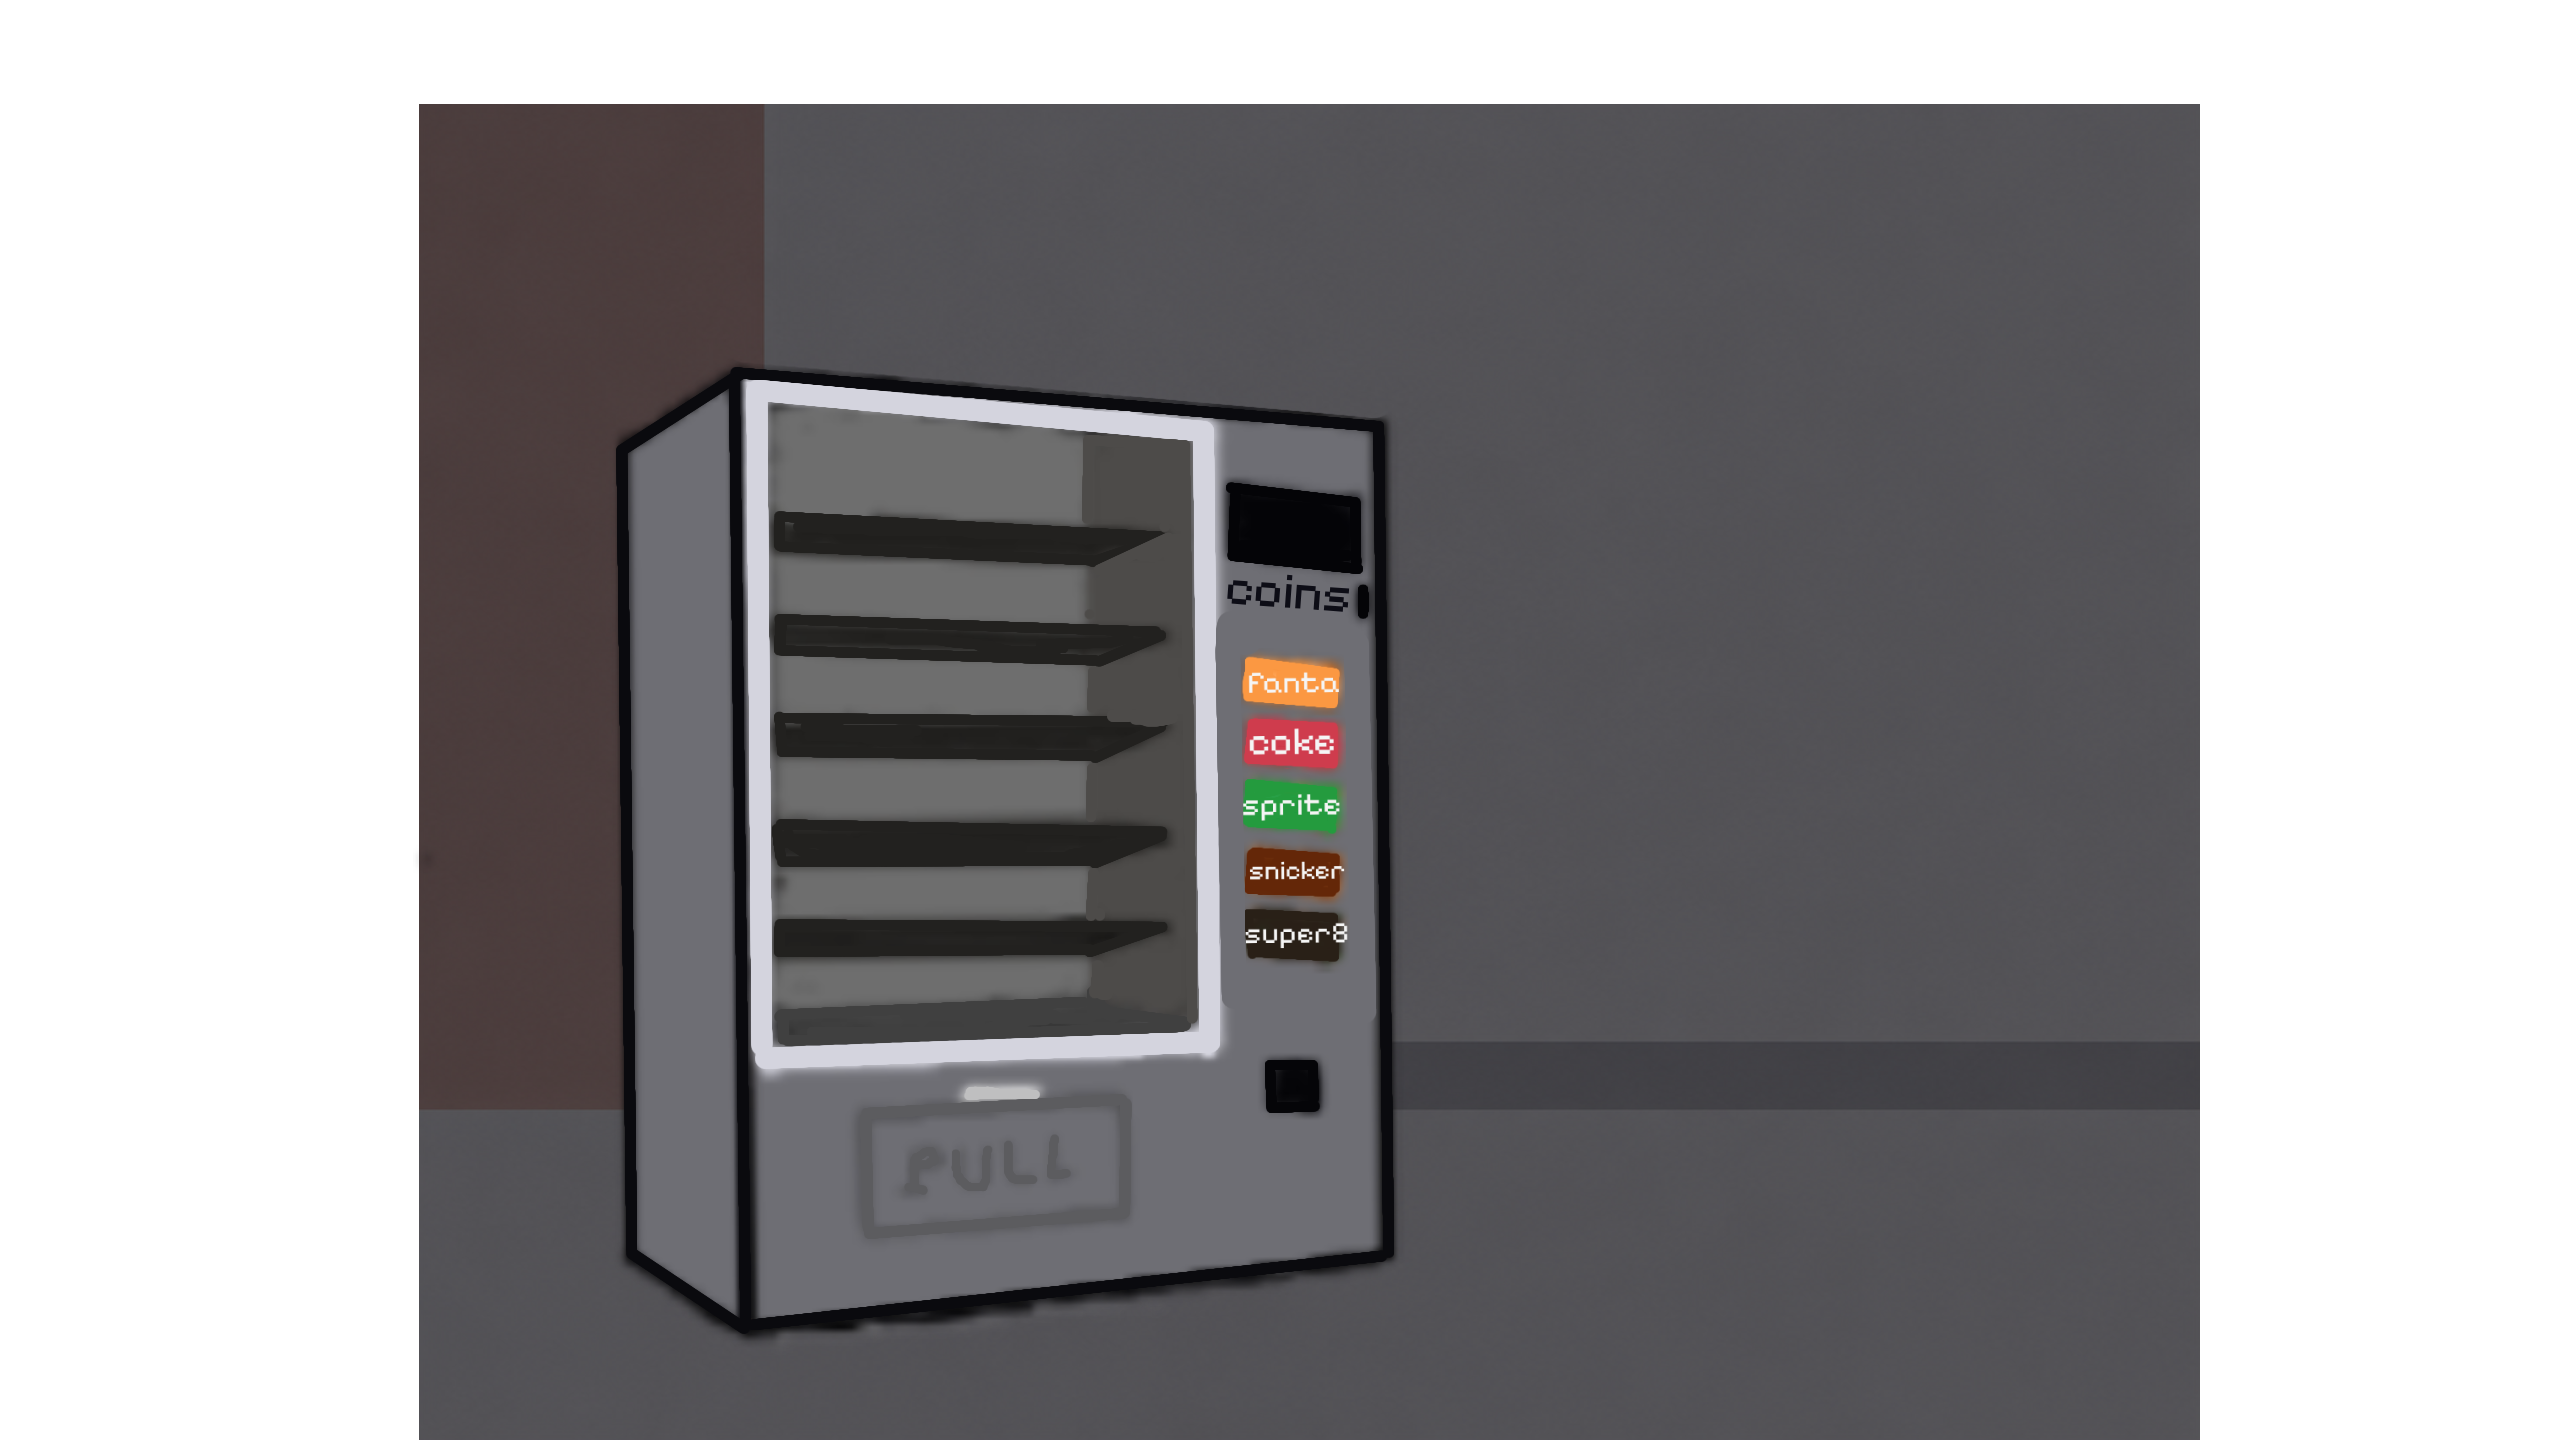
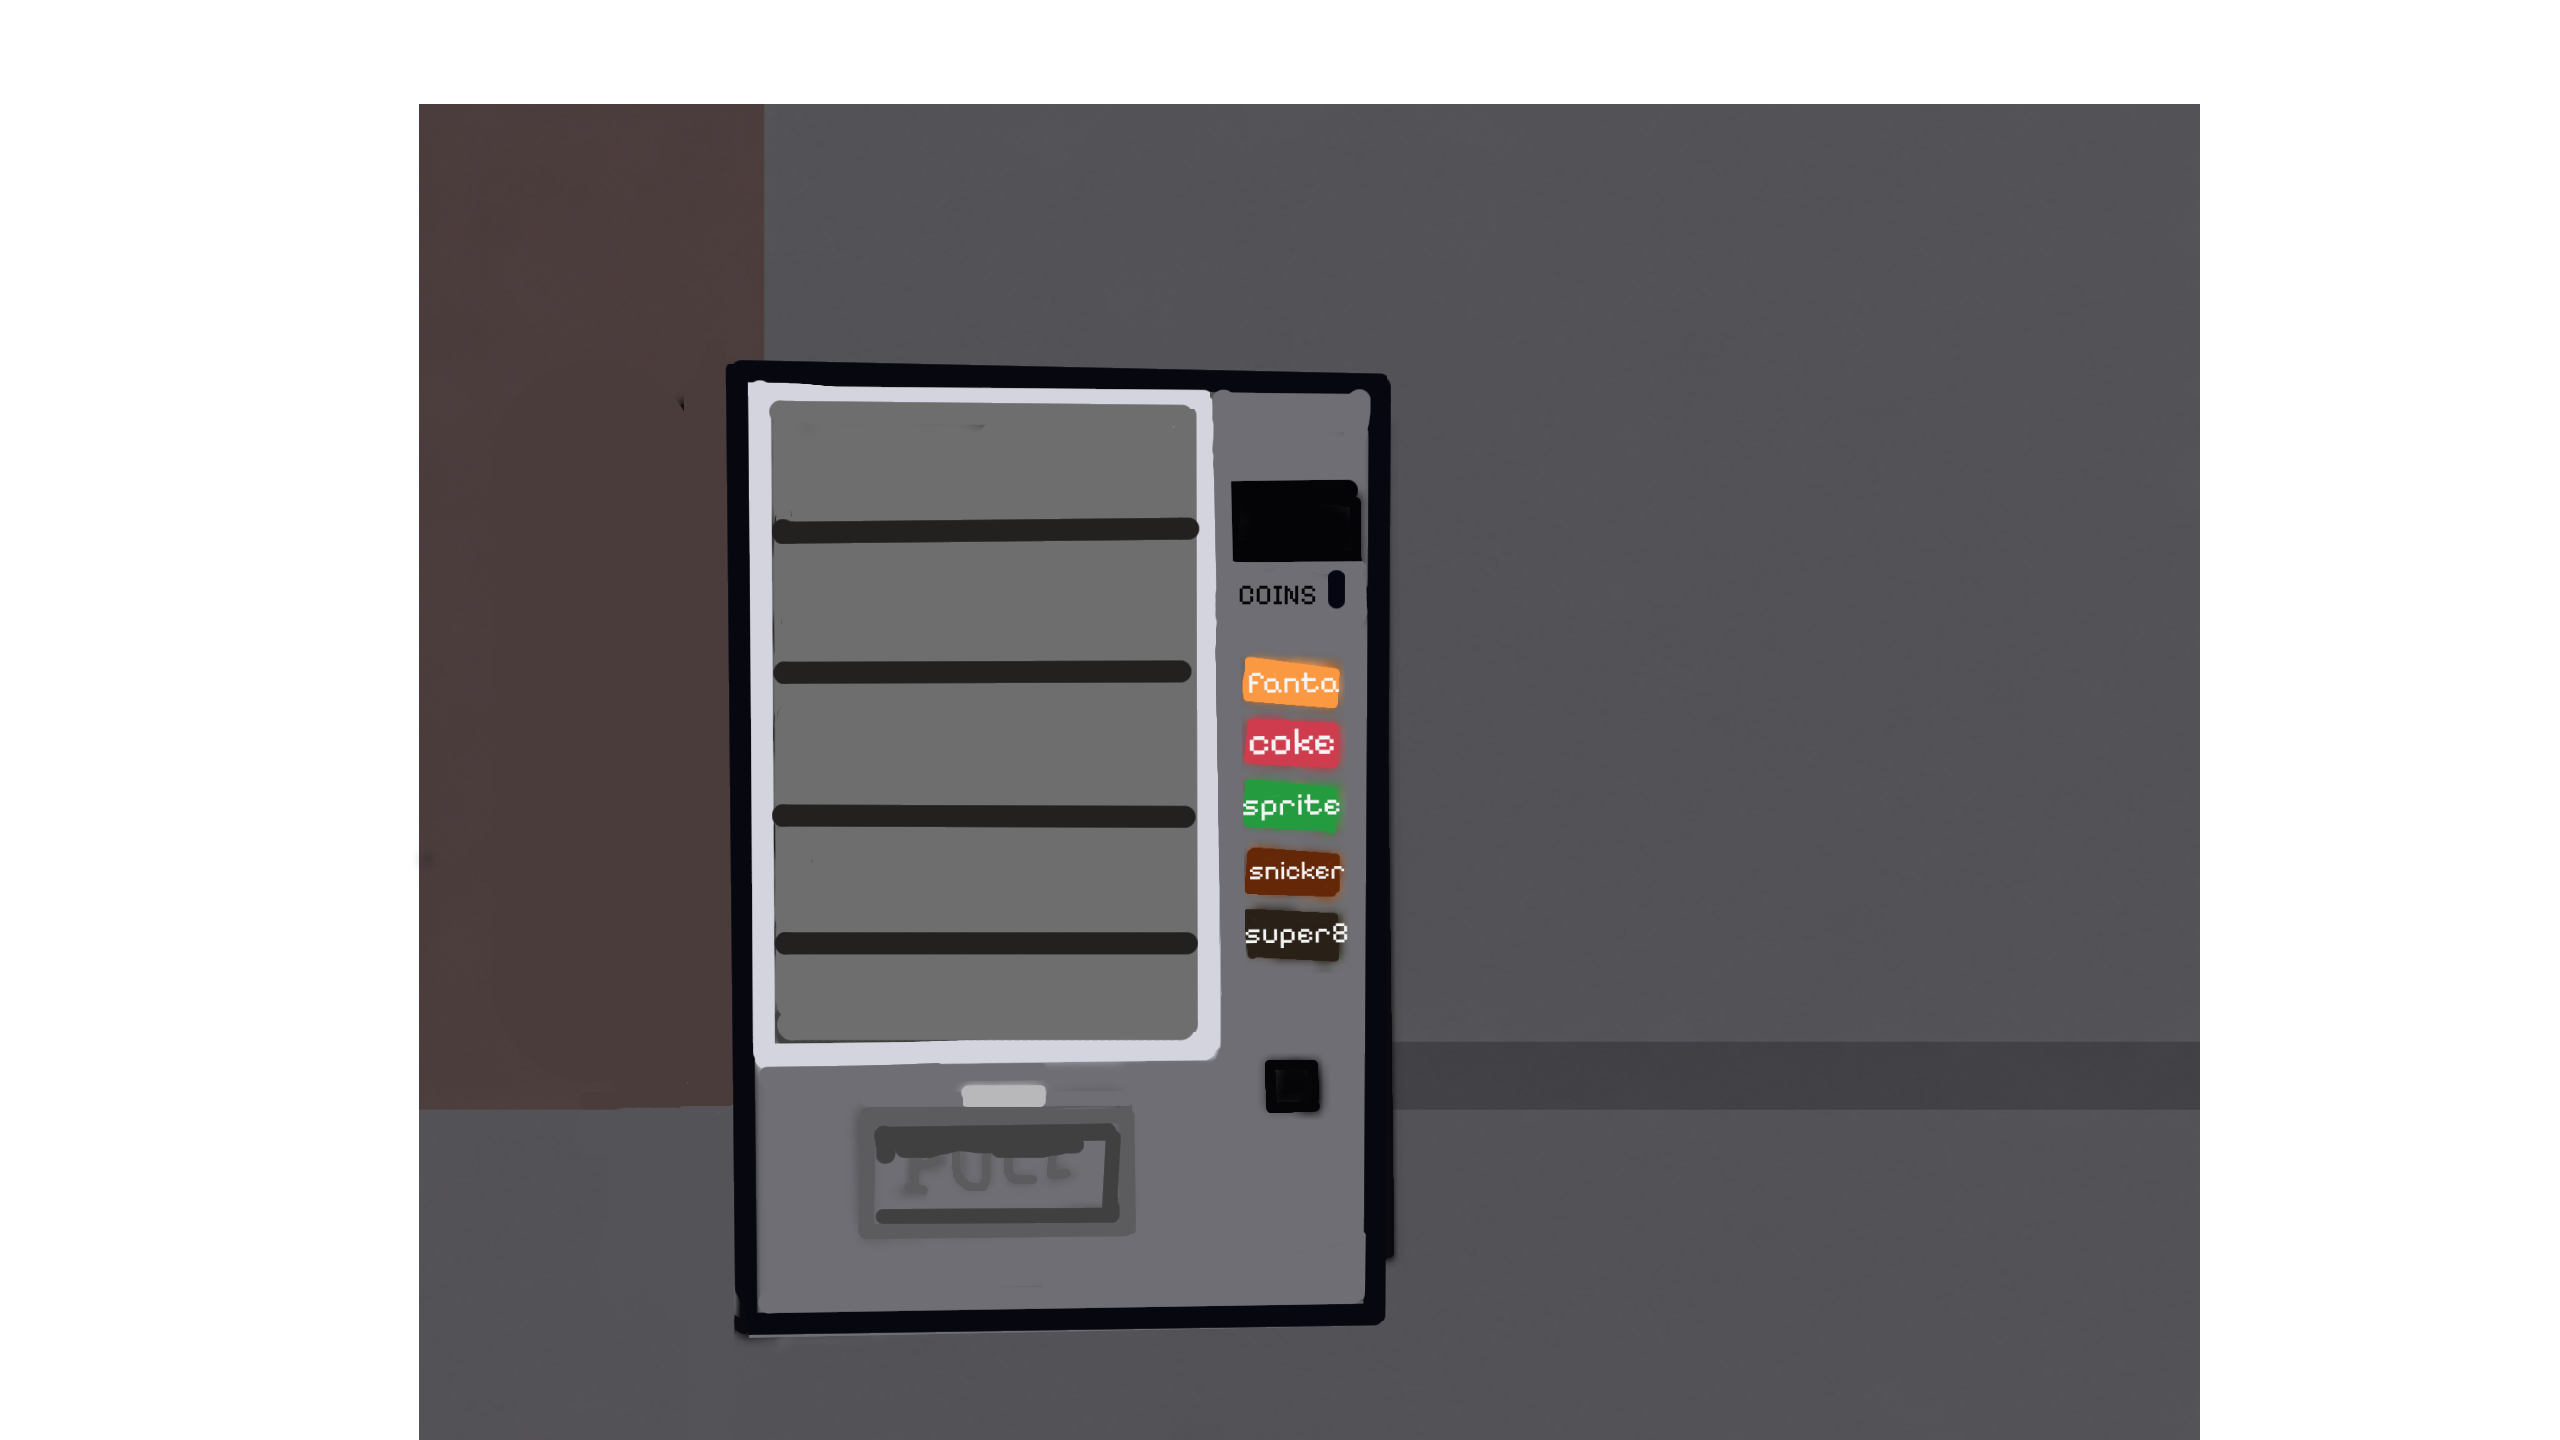
feat: agregar imagenes de productos

Changed region(s): [[0.2188, 0.25, 0.5625, 0.9375]]

diff --git a/Tarea3/Visual/Ventana.java b/Tarea3/Visual/Ventana.java
@@ -1,24 +1,54 @@
 package Visual;
-import Logica.Expendedor;
+
 import javax.swing.*;
 import java.awt.*;
 
-public class Ventana extends JFrame {
-    public Ventana() {
-        setTitle("Expendedor");
-        setSize(900, 650);
-        setDefaultCloseOperation(JFrame.EXIT_ON_CLOSE);
-        setLayout(new BorderLayout());
+public class PanelProducto {
+    private int x, y;
+    private static final int ANCHO = 65, ALTO = 48;
+    private int numSerie;
+    private Color color;
+    private Image imagen;
 
-        Expendedor expendedor = new Expendedor(5);
-        PanelPrincipal panelPrincipal = new PanelPrincipal(expendedor);
-        add(panelPrincipal, BorderLayout.CENTER);
+    public PanelProducto(int x, int y, int numSerie, Color color, String rutaImagen) {
+        this.x = x;
+        this.y = y;
+        this.numSerie = numSerie;
+        this.color = color;
 
-        setLocationRelativeTo(null);
-        setVisible(true);
+        try {
+            ImageIcon icon = new ImageIcon(
+                    getClass().getResource(rutaImagen)
+            );
+            imagen = icon.getImage()
+                    .getScaledInstance(ANCHO, ALTO, Image.SCALE_SMOOTH);
+        } catch (Exception e) {
+            System.out.println("No se pudo cargar imagen: " + rutaImagen);
+            imagen = null;
+        }
     }
 
-    public static void main(String[] args) {
-        new Ventana(); // solo esto en el main
+    public void setXY(int x, int y) {
+        this.x = x;
+        this.y = y;
+    }
+
+    public void paintComponent(Graphics g) {
+        Graphics2D g2 = (Graphics2D) g;
+        g2.setRenderingHint(RenderingHints.KEY_ANTIALIASING,
+                RenderingHints.VALUE_ANTIALIAS_ON);
+
+        if (imagen != null) {
+            g2.drawImage(imagen, x, y, null);
+        } else {
+            g2.setColor(color);
+            g2.fillRoundRect(x, y, ANCHO, ALTO, 8, 8);
+            g2.setColor(color.darker());
+            g2.drawRoundRect(x, y, ANCHO, ALTO, 8, 8);
+        }
+
+        g2.setColor(Color.WHITE);
+        g2.setFont(new Font("Arial", Font.BOLD, 10));
+        g2.drawString("#" + numSerie, x + 4, y + 28);
     }
 }

diff --git a/Tarea3/Visual/PanelProducto.java b/Tarea3/Visual/PanelProducto.java
@@ -1,4 +1,5 @@
 package Visual;
+
 import javax.swing.*;
 import java.awt.*;
 
@@ -9,26 +10,24 @@ public class PanelProducto {
     private Color color;
     private Image imagen;
 
-    public PanelProducto(int x, int y, int numSerie, Color color) {
-        this.x       = x;
-        this.y       = y;
+    public PanelProducto(int x, int y, int numSerie, Color color, String rutaImagen) {
+        this.x = x;
+        this.y = y;
         this.numSerie = numSerie;
-        this.color   = color;
+        this.color = color;
 
         try {
             ImageIcon icon = new ImageIcon(
-                    getClass().getResource("/imagenes/producto.png"));
+                    getClass().getResource(rutaImagen)
+            );
             imagen = icon.getImage()
                     .getScaledInstance(ANCHO, ALTO, Image.SCALE_SMOOTH);
         } catch (Exception e) {
+            System.out.println("No se pudo cargar imagen: " + rutaImagen);
             imagen = null;
         }
     }
 
-    /**
-     * Reposiciona el producto dentro del depósito.
-     * Se debe llamar cada vez que se agrega o saca un elemento del depósito.
-     */
     public void setXY(int x, int y) {
         this.x = x;
         this.y = y;
@@ -42,14 +41,12 @@ public class PanelProducto {
         if (imagen != null) {
             g2.drawImage(imagen, x, y, null);
         } else {
-            // fallback: rectángulo del color del producto
             g2.setColor(color);
             g2.fillRoundRect(x, y, ANCHO, ALTO, 8, 8);
             g2.setColor(color.darker());
             g2.drawRoundRect(x, y, ANCHO, ALTO, 8, 8);
         }
 
-        // número de serie encima
         g2.setColor(Color.WHITE);
         g2.setFont(new Font("Arial", Font.BOLD, 10));
         g2.drawString("#" + numSerie, x + 4, y + 28);